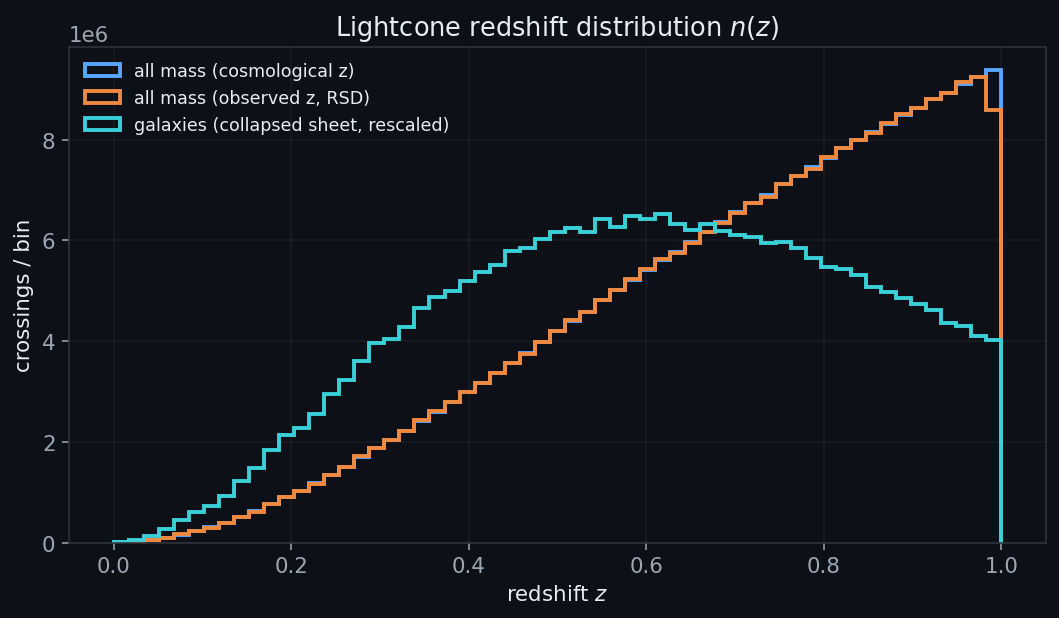
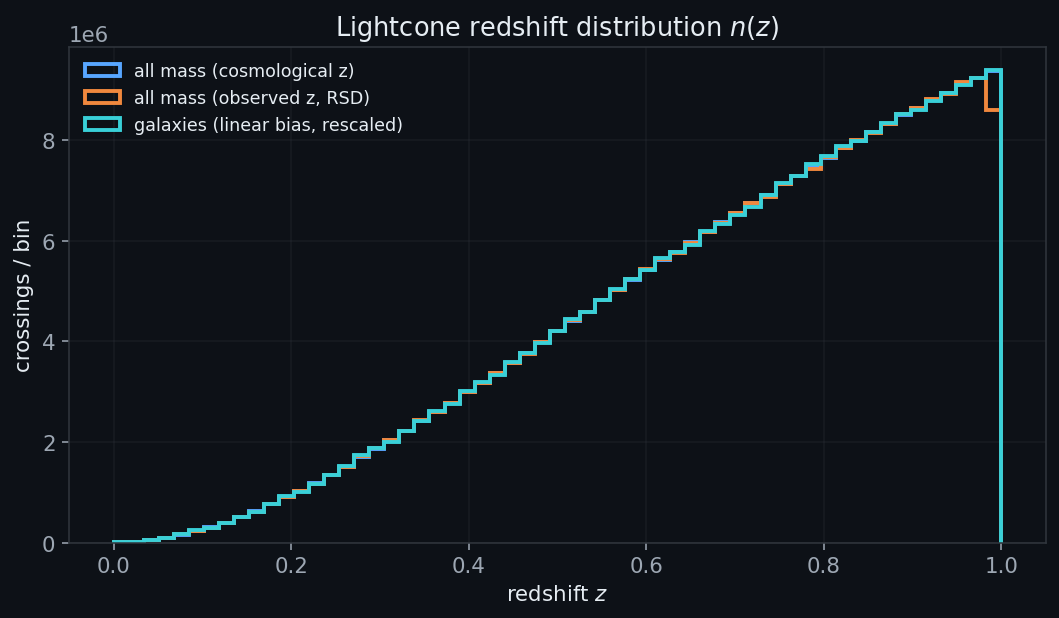
Galaxies via linear Lagrangian bias instead of densest-cell selection
Replace the "top-% by stream density" galaxy selection with a basic linear
Lagrangian bias: each Lagrangian cell hosts a galaxy with probability
  p(q) = n_bar * (1 + b * delta_L(q)),  clipped to [0, 1],
where delta_L = -div(psi_1) is the linear (initial) overdensity and b the bias
(GAL_BIAS, default 1.5; b=0 -> unbiased, every cell equal probability). Bernoulli
occupation per base-sheet cell (fixed seed -> consistent across replicas), then
advected to Eulerian lightcone positions. ~1.55 M galaxies; clusters more than
the mass, no nonlinear-collapse thresholding, no cell artifacts.

The run no longer needs deformation_mode="stream" (smaller/faster catalogue);
delta_L is computed from psi_1 and cached for --reuse. Captions/docs updated.

diff --git a/docs/lightcone_gallery.html b/docs/lightcone_gallery.html
@@ -68,12 +68,12 @@
         <figcaption><h3>The cosmic web on the lightcone</h3><p>A thin equatorial slice of the catalogue as a smooth 2-D density — filaments, knots and voids. Phase-space-sheet over-sampling deposits mass <em>inside</em> each Lagrangian cell, so there is no grid-vertex aliasing.</p></figcaption>
       </figure></div>
   </div>
-  <h2 class="section">Galaxies from the phase-space sheet</h2>
+  <h2 class="section">Galaxies (linear Lagrangian bias)</h2>
   <div class="grid">
     <div class="wide">
       <figure class="card">
-        <img src="figures/galaxies_web.png" alt="Galaxies from the phase-space sheet" loading="lazy"/>
-        <figcaption><h3>Galaxies from the phase-space sheet</h3><p>Galaxies are the densest 3% of <em>base-sheet</em> cells (one tracer per Lagrangian cell, ranked by stream density 1/|det&nbsp;T| = collapsed knots/filaments). One galaxy per collapsed cell gives a clean point field that clusters strongly, biased relative to the smooth mass — a mock galaxy catalogue straight from the sheet topology.</p></figcaption>
+        <img src="figures/galaxies_web.png" alt="Galaxies from linear Lagrangian bias" loading="lazy"/>
+        <figcaption><h3>Galaxies from linear Lagrangian bias</h3><p>Each Lagrangian cell hosts a galaxy with probability p = n&#772;(1 + b&middot;&delta;<sub>L</sub>), b=1.5 (&delta;<sub>L</sub> = the linear initial overdensity). The galaxies are then advected to their Eulerian lightcone positions — a clean linearly-biased mock that clusters more strongly than the mass.</p></figcaption>
       </figure></div>
     
       <figure class="card">

diff --git a/docs/make_lightcone_gallery.py b/docs/make_lightcone_gallery.py
@@ -49,11 +49,16 @@ C_KM_S = 299792.458
 # cell (each 1/n^3 of the mass), sampled inside the cell by Fourier-interpolating
 # psi -> smooth fixed-mass-per-tetrahedron deposit instead of grid-vertex aliasing.
 N_RESAMPLE = int(os.environ.get("GALLERY_NRESAMPLE", "2"))
-# Galaxies = the densest phase-space-sheet elements: the top GAL_PERCENT %
-# of sub-particles by stream density 1/|det T| (the local sheet density). This
-# traces the collapsed knots/filaments and gives a tunable galaxy number
-# density — a sheet-density-selected mock galaxy field.
-GAL_PERCENT = float(os.environ.get("GALLERY_GAL_PERCENT", "3.0"))
+# Galaxies via basic *linear Lagrangian bias*: each base-sheet cell (one per
+# Lagrangian grid point) hosts a galaxy with probability
+#   p(q) = GAL_NBAR * (1 + GAL_BIAS * delta_L(q)),   clipped to [0, 1],
+# where delta_L is the linear (initial) overdensity = -div(psi_1). The mean
+# probability GAL_NBAR is the same for every cell; the linear density modulates
+# it (GAL_BIAS = 0 -> unbiased, every cell equally likely). Galaxies are then
+# advected to their Eulerian lightcone positions like any other particle.
+GAL_NBAR = float(os.environ.get("GALLERY_GAL_NBAR", "0.04"))
+GAL_BIAS = float(os.environ.get("GALLERY_GAL_BIAS", "1.5"))
+GAL_SEED = 1234
 
 plt.rcParams.update({
     "figure.facecolor": "#0d1117", "savefig.facecolor": "#0d1117",
@@ -79,8 +84,8 @@ def generate_lightcone(path):
     summary = dj.evaluate_lpt_lightcone_to_hdf5(
         path, a_far=A_FAR, a_near=A_NEAR, n_shells=N_SHELLS, observer=observer,
         n_part_chunks=4, n_newton_iters=1, v_mode="radial",
-        n_resample=N_RESAMPLE, deformation_mode="stream",
-        keep_particle_idx=True,   # to pick galaxies from the *base* sheet only
+        n_resample=N_RESAMPLE,
+        keep_particle_idx=True,   # to map base-sheet crossings -> Lagrangian cell
         map_spec=spec, verbose=True)
     print(f"  -> {summary['n_particles']:,} crossings, "
           f"{summary['n_replicas']} replicas", flush=True)
@@ -132,41 +137,42 @@ def fig_convergence(dj, spec, density_shells, out):
     _save_mollview(out)
 
 
-def _galaxy_setup(path, percent):
-    """Determine the base-sheet particle count and the stream-density cut for
-    galaxies, estimated from the *base sheet only* (one particle per Lagrangian
-    cell). Galaxies are 1-per-collapsed-cell tracers, not the oversampled
-    sub-particles — otherwise every sub-particle in a collapsed cell is selected
-    and the cells fill in as a checker pattern."""
-    import h5py
-    with h5py.File(path, "r") as f:
-        hdr = f["Header"].attrs
-        n_res = int(hdr.get("NumResample", 1))
-        n_part = int(hdr["NumPart_PerReplica"]) // (n_res ** 3)
-        g = f["PartType1"]
-        if "StreamDensity" not in g or "LagrangianParticleIndex" not in g:
-            return n_part, None
-        lpid = np.asarray(g["LagrangianParticleIndex"][::29])
-        sd = np.asarray(g["StreamDensity"][::29], dtype=np.float64)
-        base = lpid < n_part
-        if not base.any():
-            return n_part, None
-        thresh = float(np.percentile(sd[base], 100.0 - percent))
-    return n_part, thresh
+def linear_overdensity_flat(dj):
+    """Linear (initial) overdensity field delta_L = -div(psi_1), flattened to
+    the Lagrangian-cell order (length res^dim). psi_1 is the Zel'dovich (D=1)
+    displacement, so this is the linear density extrapolated to a = 1."""
+    psi1 = np.asarray(dj._lpt.psi["psi_1"]).reshape(dj.res, dj.res, dj.res, 3)
+    res, L = dj.res, float(dj.boxsize)
+    kx = 2.0 * np.pi * np.fft.fftfreq(res, d=L / res)
+    kr = 2.0 * np.pi * np.fft.rfftfreq(res, d=L / res)
+    KX, KY, KZ = np.meshgrid(kx, kx, kr, indexing="ij")
+    div_hat = (1j * KX * np.fft.rfftn(psi1[..., 0])
+               + 1j * KY * np.fft.rfftn(psi1[..., 1])
+               + 1j * KZ * np.fft.rfftn(psi1[..., 2]))
+    delta = -np.fft.irfftn(div_hat, s=(res, res, res), axes=(0, 1, 2))
+    return delta.reshape(-1).astype(np.float32)
 
 
-def read_catalogue(path, observer, dj, dec_halfwidth=2.0, n_3d=40000):
+def galaxy_cell_mask(delta_L):
+    """Bernoulli galaxy occupation per Lagrangian cell under linear Lagrangian
+    bias: p = clip(GAL_NBAR * (1 + GAL_BIAS * delta_L), 0, 1). Deterministic
+    (fixed seed) so a cell's occupation is consistent across its replicas."""
+    p = np.clip(GAL_NBAR * (1.0 + GAL_BIAS * delta_L), 0.0, 1.0)
+    rng = np.random.default_rng(GAL_SEED)
+    return rng.random(delta_L.shape[0]) < p
+
+
+def read_catalogue(path, observer, dj, gal_cell, dec_halfwidth=2.0, n_3d=40000):
     """Stream the catalogue once, gathering: the thin-Dec wedge slice (all mass
     + galaxies), the n(z) histograms, a 3-D subsample, and a galaxy HEALPix
-    count map. Galaxies are the densest *base-sheet* elements (one per
-    Lagrangian cell, top GAL_PERCENT % by stream density 1/|det T|) so they form
-    a clean point distribution tracing the collapsed knots/filaments rather than
-    filling whole cells. Returns a dict of arrays."""
+    count map. Galaxies are the base-sheet cells flagged by ``gal_cell`` (one
+    per Lagrangian cell, linear-Lagrangian-bias Bernoulli occupation), advected
+    to their Eulerian lightcone positions. Returns a dict of arrays."""
     import h5py
     from discodj.core.healpix import ang2pix_ring, nside2npix
     obs = np.asarray(observer)
     a_obs_of_z = lambda z: 1.0 / (1.0 + z)
-    n_part_base, gal_thresh = _galaxy_setup(path, GAL_PERCENT)
+    n_part_base = gal_cell.shape[0]
 
     wedge = {k: [] for k in ("ra", "chi_real", "chi_rsd")}
     gwedge = {k: [] for k in ("ra", "chi_real")}     # galaxies in the slice
@@ -179,8 +185,7 @@ def read_catalogue(path, observer, dj, dec_halfwidth=2.0, n_3d=40000):
         g = f["PartType1"]
         M = g["Coordinates"].shape[0]
         stride = max(M // n_3d, 1)
-        has_sd = ("StreamDensity" in g and "LagrangianParticleIndex" in g
-                  and gal_thresh is not None)
+        has_gal = "LagrangianParticleIndex" in g
         for s in range(0, M, batch):
             e = min(s + batch, M)
             x = np.asarray(g["Coordinates"][s:e], dtype=np.float64)
@@ -197,15 +202,14 @@ def read_catalogue(path, observer, dj, dec_halfwidth=2.0, n_3d=40000):
             z_real_all.append(z_cosmo)
             z_rsd_all.append(z_obs)
             n_tot += e - s
-            # galaxies = densest *base-sheet* elements (1 per Lagrangian cell):
-            # restrict to the base sheet (lpid < n_part_base) then take the top
-            # GAL_PERCENT % by stream density -> clean point tracers, no cell fill.
-            if has_sd:
-                sd = np.asarray(g["StreamDensity"][s:e], dtype=np.float64)
+            # galaxies = base-sheet cells (lpid < n_part_base) flagged by the
+            # linear-Lagrangian-bias occupation mask -> one tracer per Lagrangian
+            # cell, advected to its Eulerian lightcone position.
+            if has_gal:
                 lpid = np.asarray(g["LagrangianParticleIndex"][s:e])
                 base_mask = lpid < n_part_base
                 n_base += int(base_mask.sum())
-                is_gal = base_mask & (sd > gal_thresh)
+                is_gal = base_mask & gal_cell[np.clip(lpid, 0, n_part_base - 1)]
             else:
                 is_gal = np.zeros(e - s, dtype=bool)
             n_gal += int(is_gal.sum())
@@ -317,8 +321,7 @@ def fig_galaxy_sky(cat, out):
     gmap = hp.smoothing(cat["gal_map"], fwhm=np.radians(1.0))
     plt.close("all")
     hp.mollview(gmap, cmap="cividis", cbar=True, norm="hist",
-                title=f"Galaxy angular density (densest {GAL_PERCENT:g}% of "
-                      f"base-sheet cells)",
+                title=f"Galaxy angular density (linear Lagrangian bias b={GAL_BIAS:g})",
                 unit="galaxies / pixel (smoothed)", bgcolor="#0d1117")
     hp.graticule(color="#30363d", dpar=30, dmer=30)
     _save_mollview(out)
@@ -350,7 +353,7 @@ def fig_galaxies_web(cat, out):
     ax.set_xlabel("comoving x [Mpc/h]"); ax.set_ylabel("comoving y [Mpc/h]")
     ax.set_title("Galaxies (cyan) tracing the cosmic web over the smooth "
                  "dark-matter density\n"
-                 f"(densest {GAL_PERCENT:g}% of base-sheet cells = "
+                 f"(linear Lagrangian bias b={GAL_BIAS:g}, "
                  f"{cat['n_gal']:,} galaxies)", pad=14)
     plt.savefig(out, dpi=140, bbox_inches="tight")
     plt.close("all")
@@ -369,7 +372,7 @@ def fig_nz(cat, out):
         scale = cat["z_real"].size / max(cat["z_gal"].size, 1)
         ax.hist(cat["z_gal"], bins=bins, histtype="step", color="#39d0d8",
                 lw=2, weights=np.full(cat["z_gal"].size, scale),
-                label="galaxies (collapsed sheet, rescaled)")
+                label="galaxies (linear bias, rescaled)")
     ax.set_xlabel("redshift $z$"); ax.set_ylabel("crossings / bin")
     ax.set_title("Lightcone redshift distribution $n(z)$")
     ax.legend(frameon=False, fontsize=9)
@@ -465,7 +468,7 @@ def build_html(figs, plotly_div, summary, out):
   <div class="grid">
     <div class="wide">{cards[2]}</div>
   </div>
-  <h2 class="section">Galaxies from the phase-space sheet</h2>
+  <h2 class="section">Galaxies (linear Lagrangian bias)</h2>
   <div class="grid">
     <div class="wide">{cards[3]}</div>
     {cards[4]}
@@ -504,12 +507,18 @@ def main():
         summary = {"n_particles": int(d["n_particles"]),
                    "n_replicas": int(d["n_replicas"]), "maps": d["maps"]}
         density_shells = summary["maps"]
+        delta_L = d["delta_L"]
     else:
         dj, observer, spec, summary = generate_lightcone(tmp)
         density_shells = summary["maps"]
+        delta_L = linear_overdensity_flat(dj)   # for the linear galaxy bias
         np.savez(meta_path, observer=observer, maps=density_shells,
                  n_particles=summary["n_particles"],
-                 n_replicas=summary["n_replicas"])
+                 n_replicas=summary["n_replicas"], delta_L=delta_L)
+
+    gal_cell = galaxy_cell_mask(delta_L)
+    print(f"Galaxy linear bias: n_bar={GAL_NBAR}, b={GAL_BIAS} -> "
+          f"{gal_cell.mean()*100:.2f}% of cells occupied", flush=True)
 
     p_density = os.path.join(FIGDIR, "sky_density.png")
     p_kappa = os.path.join(FIGDIR, "sky_convergence.png")
@@ -525,7 +534,7 @@ def main():
 
     print("Reading catalogue for the web / RSD / n(z) / galaxies / 3-D ...",
           flush=True)
-    cat = read_catalogue(tmp, observer, dj)
+    cat = read_catalogue(tmp, observer, dj, gal_cell)
     fig_cosmic_web(cat, p_web)
     fig_galaxy_sky(cat, p_gsky)
     fig_galaxies_web(cat, p_gweb)
@@ -551,12 +560,12 @@ def main():
          "mass <em>inside</em> each Lagrangian cell, so there is no grid-vertex "
          "aliasing.",
          p_web),
-        ("Galaxies from the phase-space sheet",
-         f"Galaxies are the densest {GAL_PERCENT:g}% of <em>base-sheet</em> cells "
-         "(one tracer per Lagrangian cell, ranked by stream density 1/|det&nbsp;T| "
-         "= collapsed knots/filaments). One galaxy per collapsed cell gives a "
-         "clean point field that clusters strongly, biased relative to the smooth "
-         "mass — a mock galaxy catalogue straight from the sheet topology.",
+        ("Galaxies from linear Lagrangian bias",
+         f"Each Lagrangian cell hosts a galaxy with probability "
+         f"p = n&#772;(1 + b&middot;&delta;<sub>L</sub>), b={GAL_BIAS:g} "
+         "(&delta;<sub>L</sub> = the linear initial overdensity). The galaxies "
+         "are then advected to their Eulerian lightcone positions — a clean "
+         "linearly-biased mock that clusters more strongly than the mass.",
          p_gweb),
         ("Galaxy angular clustering",
          "The same sheet-selected galaxies on the sky — the angular galaxy "

diff --git a/docs/lightcone_integration.md b/docs/lightcone_integration.md
@@ -44,15 +44,17 @@ cosmology.
 *A 4°-thick slice through the lightcone (observer at centre) — filaments, knots
 and voids, smoothly deposited from the sheet (no grid aliasing).*
 
-#### Galaxies from the phase-space sheet
+#### Galaxies (linear Lagrangian bias)
 
 | Galaxies tracing the web | Galaxy angular clustering |
 |---|---|
 | ![Galaxies on the web](figures/galaxies_web.png) | ![Galaxy sky map](figures/galaxy_sky.png) |
 
-Galaxies are the **densest sheet elements** — the top few % by stream density
-`1/|det T|` (the collapsed knots and filaments). They cluster strongly, biased
-relative to the smooth mass: a mock galaxy field straight from the sheet topology.
+Galaxies follow a **basic linear Lagrangian bias**: each Lagrangian cell hosts a
+galaxy with probability `p = n̄(1 + b·δ_L)` (`δ_L` = the linear initial
+overdensity, `b` the bias), then they are advected to their Eulerian lightcone
+positions. The result clusters more strongly than the mass — a clean, unbiased-
+to-biased mock galaxy field (set `b = 0` for an unbiased tracer).
 
 #### Redshift-space & n(z)
 
